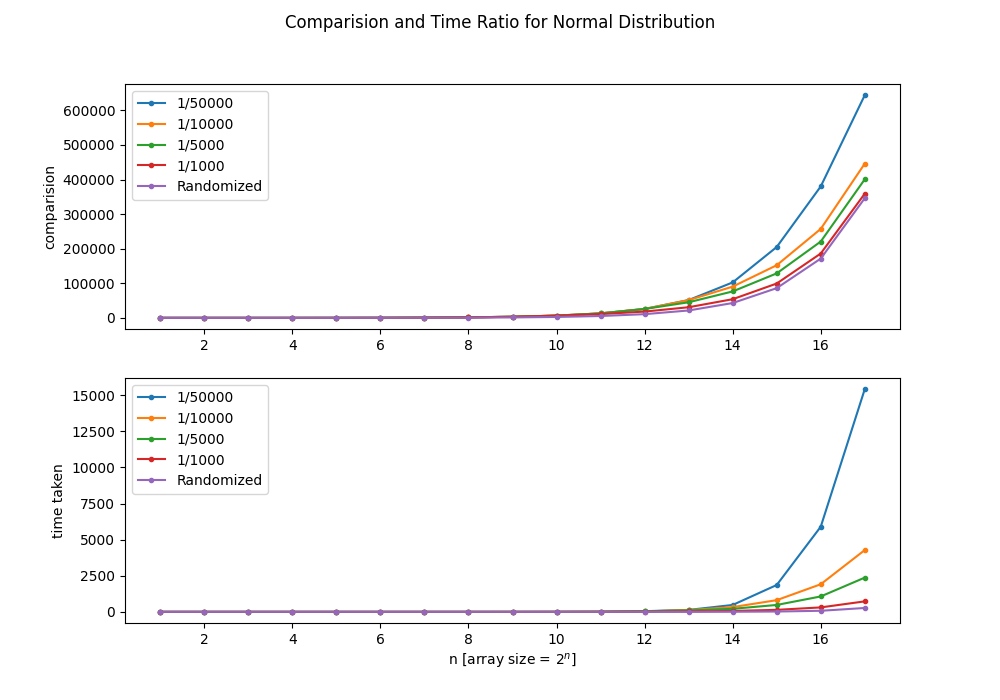
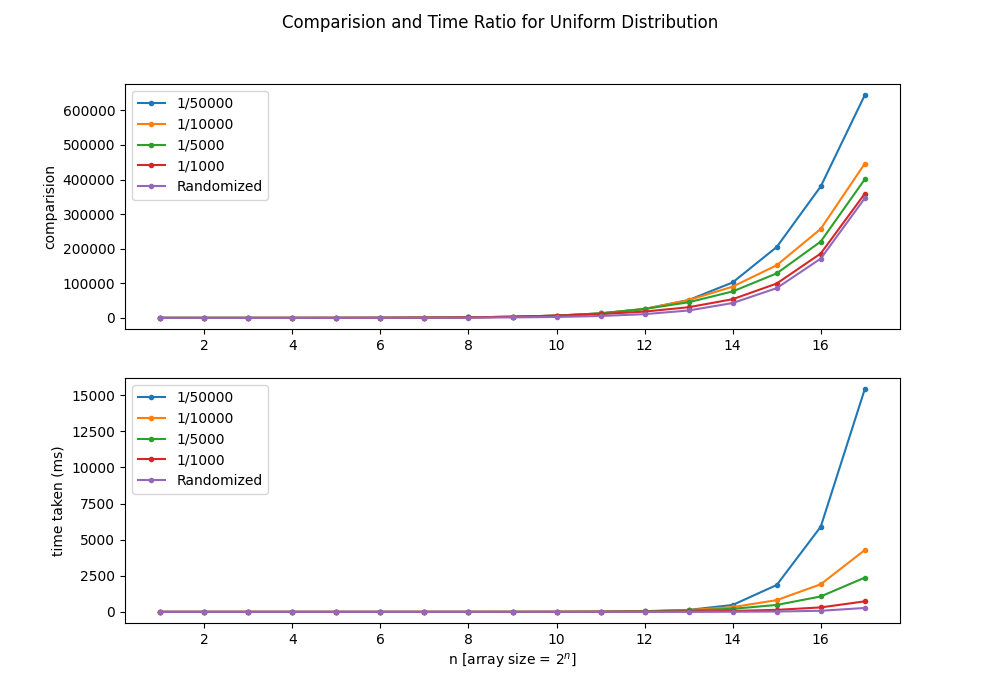
problem 2 coding done

Changed region(s): [[0.279, 0.0, 0.713, 0.06], [0.031, 0.63, 0.062, 0.78]]

diff --git a/Assignment 1/Question 4 Randomized Quick Sort/Part 2 Deliberate Partitions/Normal vs Uniform/plotter.py b/Assignment 1/Question 4 Randomized Quick Sort/Part 2 Deliberate Partitions/Normal vs Uniform/plotter.py
@@ -1,0 +1,39 @@
+import pandas as pd
+import matplotlib.pyplot as plt
+import numpy as np
+import matplotlib
+from pandas.core.indexing import is_label_like
+
+
+norm_df = pd.read_csv('part_random_norm_obs.csv')
+uni_df = pd.read_csv('part_random_uni_obs.csv')
+
+
+n_norm = norm_df['num_elements'].to_numpy()
+comp_norm = norm_df['avg_comparison'].to_numpy()
+time_norm = norm_df['avg_time'].to_numpy()
+
+n_uni = uni_df['num_elements'].to_numpy()
+comp_uni = uni_df['avg_comparison'].to_numpy()
+time_uni = uni_df['avg_time'].to_numpy()
+
+x_axis = range(1,18)
+
+fig, axis = plt.subplots(2, 1, figsize=(10, 7))
+
+fig.suptitle('Comparision and Time Ratio for Normal Distribution')
+
+axis[0].plot(x_axis,comp_norm, 'o-', label='Normal')
+axis[0].plot(x_axis,comp_uni, 'o-', label='Uniform')
+axis[0].legend()
+axis[0].set_ylabel('comparision')
+
+axis[1].plot(x_axis,time_norm, 'o-', label='Normal')
+axis[1].plot(x_axis,time_uni, 'o-', label='Uniform')
+
+axis[1].legend()
+axis[1].set_ylabel('time taken (ms)')
+
+plt.xlabel(r'n [array size = $2^n$]')
+
+plt.savefig('observation.png')

diff --git a/Assignment 1/Question 4 Randomized Quick Sort/Part 2 Deliberate Partitions/Normal/plotter.py b/Assignment 1/Question 4 Randomized Quick Sort/Part 2 Deliberate Partitions/Normal/plotter.py
@@ -51,7 +51,7 @@ axis[1].plot(x_axis,time_1_5000, '.-', label='1/5000')
 axis[1].plot(x_axis,time_1_1000, '.-', label='1/1000')
 axis[1].plot(x_axis,time_normal, '.-', label = 'Randomized')
 axis[1].legend()
-axis[1].set_ylabel('time taken')
+axis[1].set_ylabel('time taken (ms)')
 
 plt.xlabel(r'n [array size = $2^n$]')
 

diff --git a/Assignment 1/Question 4 Randomized Quick Sort/Part 2 Deliberate Partitions/Uniform/plotter.py b/Assignment 1/Question 4 Randomized Quick Sort/Part 2 Deliberate Partitions/Uniform/plotter.py
@@ -51,7 +51,7 @@ axis[1].plot(x_axis,time_1_5000, '.-', label='1/5000')
 axis[1].plot(x_axis,time_1_1000, '.-', label='1/1000')
 axis[1].plot(x_axis,time_normal, '.-', label = 'Randomized')
 axis[1].legend()
-axis[1].set_ylabel('time taken')
+axis[1].set_ylabel('time taken (ms)')
 
 plt.xlabel(r'n [array size = $2^n$]')
 
